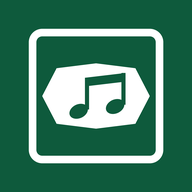
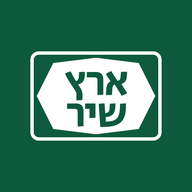
סמל חדש: ארץ שיר במתומן
Claude-Session: https://claude.ai/code/session_01UUzZPmfJaYqwYMxHsoFh6C

Changed region(s): [[0.125, 0.125, 0.875, 0.875]]

diff --git a/index.html b/index.html
@@ -4,8 +4,8 @@
 <meta charset="utf-8">
 <meta name="viewport" content="width=device-width,initial-scale=1,viewport-fit=cover">
 <meta name="theme-color" content="#14201b">
-<link rel="manifest" href="manifest.json?v=2">
-<link rel="apple-touch-icon" href="icon-180.png?v=2">
+<link rel="manifest" href="manifest.json?v=3">
+<link rel="apple-touch-icon" href="icon-180.png?v=3">
 <meta name="apple-mobile-web-app-capable" content="yes">
 <meta name="mobile-web-app-capable" content="yes">
 <meta name="apple-mobile-web-app-title" content="ארץ שיר">
